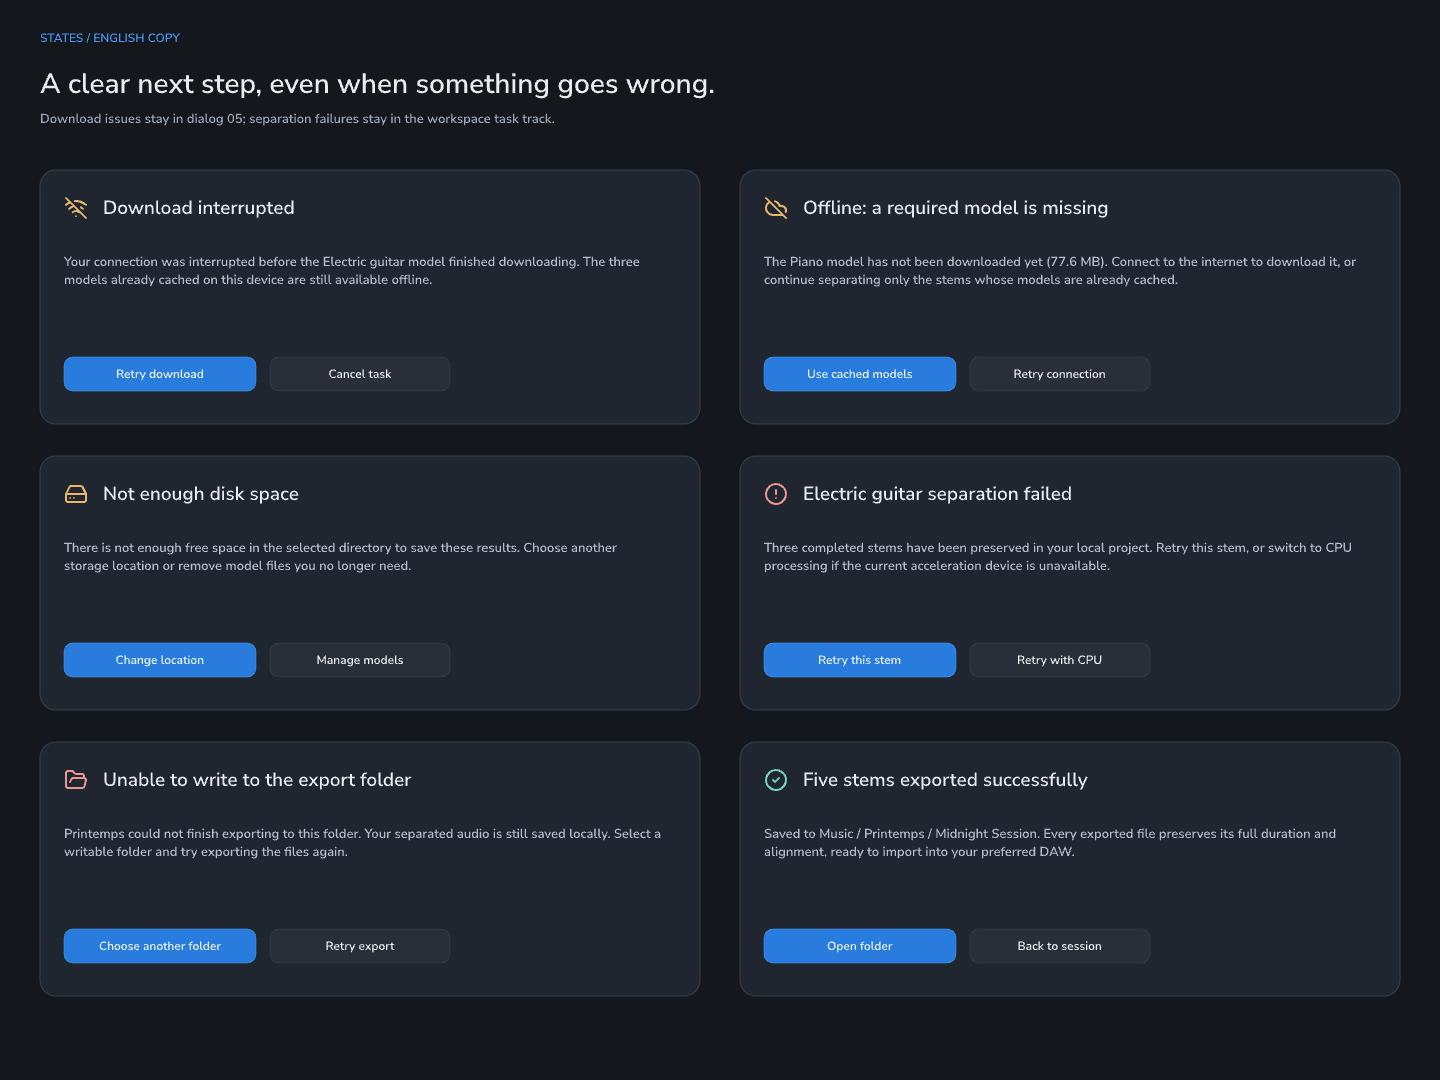
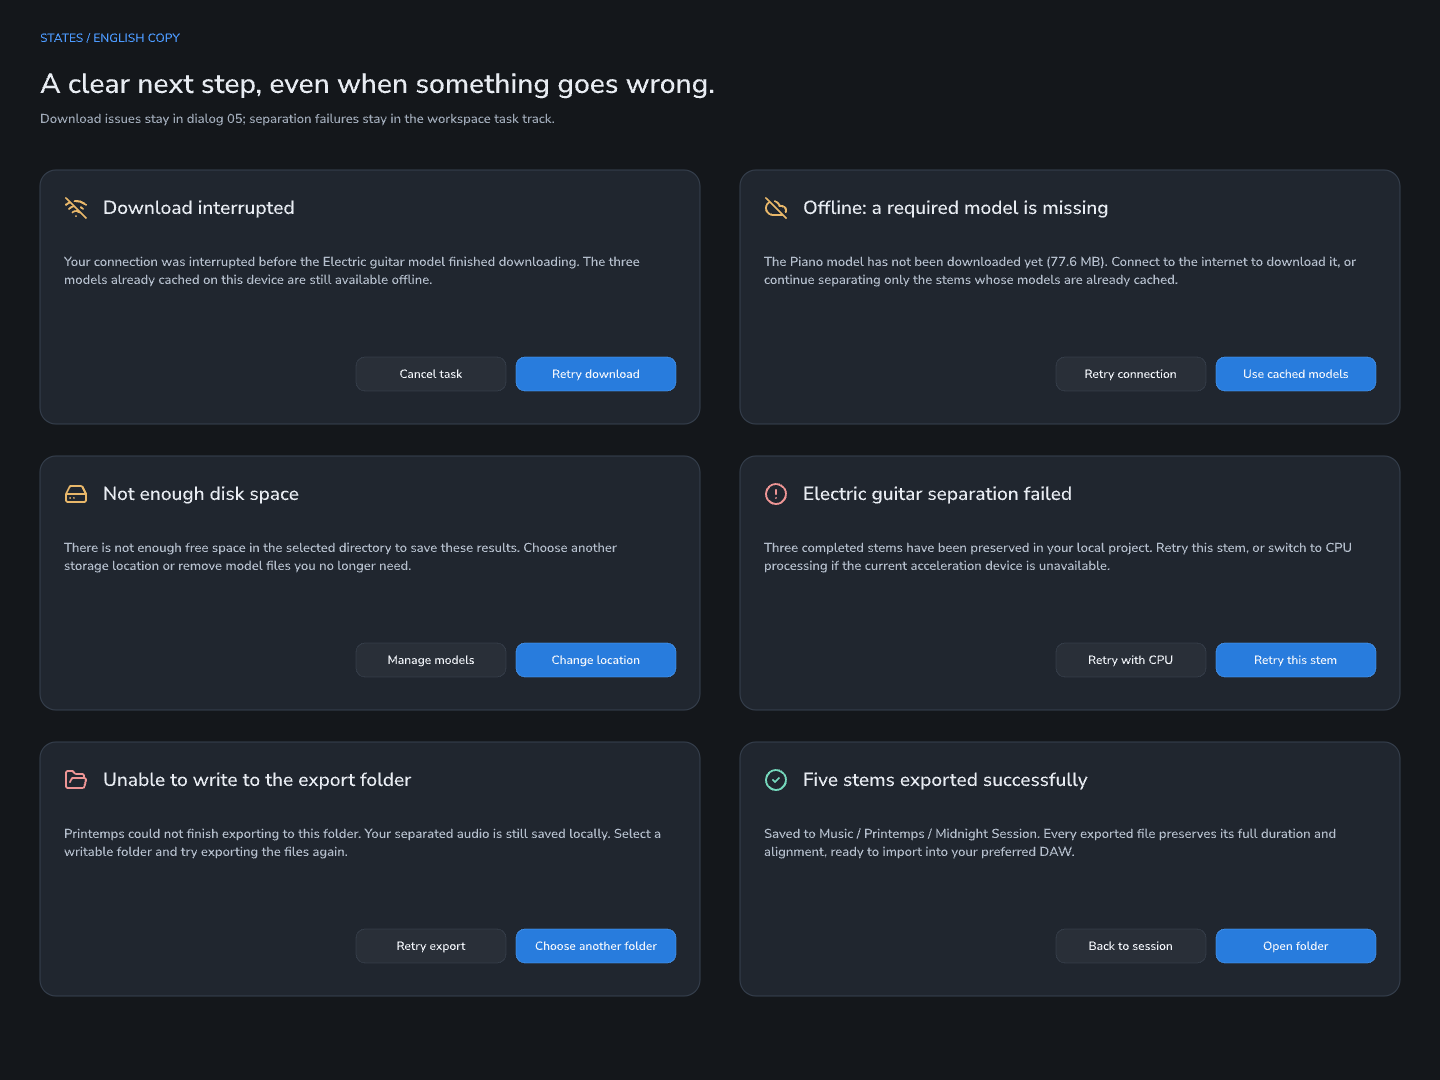
Design: board 12 follows board 10's right-aligned buttons; index drops stale entries and opens board 30

diff --git a/design/index.html b/design/index.html
@@ -1,7 +1,7 @@
 <!doctype html>
 <html lang="zh-CN"><meta charset="utf-8"><meta name="viewport" content="width=device-width,initial-scale=1"><title>Printemps · 设计交付</title>
 <style>*{box-sizing:border-box}body{margin:0;background:#101318;color:#e8ecf2;font:14px system-ui,-apple-system,sans-serif}header{height:76px;display:flex;align-items:center;gap:20px;border-bottom:1px solid #303640;padding:0 24px}strong{letter-spacing:3px;font-size:20px}header span{color:#a0aab8;font-size:12px}header a{color:#92c0ff;margin-left:auto}main{display:grid;grid-template-columns:240px minmax(0,1fr);min-height:calc(100vh - 76px)}nav{padding:18px 12px;background:#191e25;border-right:1px solid #303640}button{display:flex;gap:14px;width:100%;text-align:left;padding:13px;border:0;border-radius:10px;background:transparent;color:#9ea9b9;cursor:pointer;font:inherit;font-size:12px}button span{color:#e8ecf2}button:hover,button.active{background:#263c59;color:#8bc0ff}section{padding:24px;min-width:0}h1{margin:0;font-size:19px;font-weight:500}.caption{display:flex;align-items:center;justify-content:space-between;margin-bottom:20px}.caption a{color:#8cbfff;text-decoration:none;font-size:12px}img{display:block;width:100%;height:auto;max-width:1600px;border:1px solid #303640;box-shadow:0 12px 42px #0006}p{font-size:12px;line-height:1.8;color:#a0aab8;margin-top:18px}button:focus-visible,a:focus-visible{outline:2px solid #8cbfff;outline-offset:3px}@media(max-width:850px){main{grid-template-columns:180px minmax(0,1fr)}section{padding:14px}header span{display:none}nav{padding:12px 6px}button{font-size:11px;padding:10px 8px}}.brand-logo{width:178px;height:40px;object-fit:contain;border:0;box-shadow:none}.artboard-wrap{position:relative}#source-switch{position:absolute;display:flex;padding:0;background:#292f38;border:1px solid #3a4350;border-radius:10px;isolation:isolate}#source-switch button{position:relative;z-index:1;width:50%;height:100%;display:grid;place-items:center;padding:0;color:#f3f6fb;font-size:clamp(8px,.82vw,12px);border-radius:7px;background:transparent}#source-switch .slider{position:absolute;z-index:0;left:2%;top:9%;width:47.3%;height:82%;background:#287cdd;border-radius:7px;transform:translateX(103%);transition:transform 200ms cubic-bezier(.2,.8,.2,1)}#source-switch.original .slider{transform:translateX(0)}@media(prefers-reduced-motion:reduce){#source-switch .slider{transition:none}}#project-name,#project-name-input{position:absolute;left:1.39%;top:7.89%;width:36%;height:2.9%;background:#1c2026;border:0;color:#e8ecf2;padding:0;text-align:left;font:600 clamp(8px,1.1vw,16px) system-ui;display:block;border-radius:5px;white-space:nowrap;overflow:hidden;text-overflow:ellipsis}#project-name-input{outline:2px solid #4c9aff;background:#101318}#project-name[hidden],#project-name-input[hidden]{display:none}#project-name{width:auto;max-width:36%;height:2.7%;font-size:clamp(5px,.75vw,16px);font-weight:500;line-height:1;padding:0 2px;gap:5px;display:flex;align-items:center;outline-offset:2px}#project-name:hover{background:#1c2026}#project-name .edit-mark{font-size:.7em;color:#7e8998;opacity:.45;transition:opacity 120ms}#project-name:hover .edit-mark,#project-name:focus-visible .edit-mark{opacity:1}#project-name-input{font-size:clamp(5px,.75vw,16px)}.artboard-wrap{container-type:inline-size}#project-name,#project-name-input{font-size:1.111cqw}</style>
-<header><img class="brand-logo" src="brand/printemps-logo-dark.png" alt="Printemps"><span>DAW 风格 · 简体中文 / English · Pen 设计交付</span><a href="README.md">交互与交接说明 ↗</a></header><main><nav aria-label="设计画板"><button data-src="exports/00-foundations.png" data-title="视觉规范与组件">00 <span>视觉规范与组件</span></button><button data-src="exports/01-workbench-zh.png" data-title="中文多轨工作台">01 <span>中文多轨工作台</span></button><button data-src="exports/02-workbench-en-compact.png" data-title="英文紧凑工作台">02 <span>英文紧凑工作台</span></button><button data-src="exports/03-import.png" data-title="导入与最近项目">03 <span>导入与最近项目</span></button><button data-src="exports/04-separation-setup.png" data-title="选择声部弹窗">04 <span>选择声部弹窗</span></button><button data-src="exports/05-model-download.png" data-title="模型下载弹窗">05 <span>模型下载弹窗</span></button><button data-src="exports/06-processing.png" data-title="工作区内分离进度">06 <span>工作区内分离进度</span></button><button data-src="exports/07-model-library.png" data-title="模型管理">07 <span>模型管理</span></button><button data-src="exports/08-export.png" data-title="导出剪辑弹窗">08 <span>导出剪辑弹窗</span></button><button data-src="exports/09-preferences.png" data-title="设置">09 <span>设置</span></button><button data-src="exports/10-recovery-zh.png" data-title="中文恢复与完成">10 <span>中文恢复与完成</span></button><button data-src="exports/11-interaction-map.png" data-title="交互规范">11 <span>交互规范</span></button><button data-src="exports/12-recovery-en.png" data-title="英文长文案状态">12 <span>英文长文案状态</span></button><button data-src="exports/13-history.png" data-title="历史工作记录">13 <span>历史工作记录</span></button><button data-src="exports/14-history-states.png" data-title="历史搜索与删除">14 <span>历史搜索与删除</span></button><button data-src="exports/15-stem-search.png" data-title="声部弹窗 · 搜索结果">15 <span>声部弹窗 · 搜索结果</span></button><button data-src="exports/16-stem-search-empty.png" data-title="声部弹窗 · 无结果">16 <span>声部弹窗 · 无结果</span></button><button data-src="exports/17-brand.png" data-title="品牌标志与应用图标">17 <span>品牌标志与应用图标</span></button><button data-src="exports/18-motion.png" data-title="统一交互与动效">18 <span>统一交互与动效</span></button><button data-src="exports/19-music-analysis.png" data-title="BPM 与调性分析">19 <span>BPM 与调性分析</span></button><button data-src="exports/20-beat-timeline.png" data-title="节拍器与小节刻度">20 <span>节拍器与小节刻度</span></button><button data-src="exports/21-imported-workspace.png" data-title="导入后工作区（单音轨）">21 <span>导入后工作区</span></button><button data-src="exports/22b-deleted-projects.png" data-title="已删除项目">22B</button><button data-src="exports/22-secondary-separation.png" data-title="二次分离与其它音轨">22 <span>二次分离与其它音轨</span></button><button data-src="workspace-revision/Ac4ta.png" data-title="工作台修订">23 <span>工作台修订</span></button><button data-src="exports/24-all-tracks.png" data-title="所有音轨">24 <span>所有音轨</span></button><button data-src="exports/25-rhythm-key.png" data-title="节奏与调性">25 <span>节奏与调性</span></button><button data-src="exports/26-shortcuts.png" data-title="快捷键">26 <span>快捷键</span></button><button data-src="exports/27-compact-task-notice.png" data-title="紧凑任务提示">27 <span>紧凑任务提示</span></button><button data-src="exports/28-native-menus.png" data-title="原生菜单栏">28 <span>原生菜单栏</span></button><button data-src="exports/29-native-titlebar.png" data-title="平台融合顶栏">29 <span>平台融合顶栏</span></button><button data-src="exports/30-multi-clip-workspace.png" data-title="多剪辑工作台（当前）">30 <span>多剪辑工作台（当前）</span></button><button data-src="exports/31-recovery-banners.png" data-title="保存与导入失败 · 紧凑恢复提示">31 <span>保存与导入恢复提示</span></button></nav><section><div class="caption"><h1 id="title">中文多轨工作台</h1><a id="original" href="exports/01-workbench-zh.png" target="_blank">查看原尺寸 PNG ↗</a></div><div class="artboard-wrap"><img id="artboard" src="exports/01-workbench-zh.png" alt="Printemps 中文多轨工作台设计"><button id="project-name" title="修改项目名称">Midnight Session ✎</button><input id="project-name-input" aria-label="项目名称" maxlength="80" hidden><div id="source-switch" role="group" aria-label="试听来源"><span class="slider"></span><button type="button" aria-pressed="false">原始</button><button type="button" aria-pressed="true">分轨</button></div></div><p><a href="motion.html">打开交互动效预览 ↗</a><br>剪辑分割与裁剪 · 片段分离与导出 · 历史项目管理<br>本页为界面设计预览，波形、缓存状态与进度均为示例。</p></section></main>
+<header><img class="brand-logo" src="brand/printemps-logo-dark.png" alt="Printemps"><span>DAW 风格 · 简体中文 / English · Pen 设计交付</span><a href="README.md">交互与交接说明 ↗</a></header><main><nav aria-label="设计画板"><button data-src="exports/00-foundations.png" data-title="视觉规范与组件">00 <span>视觉规范与组件</span></button><button data-src="exports/02-workbench-en-compact.png" data-title="英文紧凑工作台">02 <span>英文紧凑工作台</span></button><button data-src="exports/03-import.png" data-title="导入与最近项目">03 <span>导入与最近项目</span></button><button data-src="exports/04-separation-setup.png" data-title="选择声部弹窗">04 <span>选择声部弹窗</span></button><button data-src="exports/05-model-download.png" data-title="模型下载弹窗">05 <span>模型下载弹窗</span></button><button data-src="exports/06-processing.png" data-title="工作区内分离进度">06 <span>工作区内分离进度</span></button><button data-src="exports/07-model-library.png" data-title="模型管理">07 <span>模型管理</span></button><button data-src="exports/08-export.png" data-title="导出剪辑弹窗">08 <span>导出剪辑弹窗</span></button><button data-src="exports/09-preferences.png" data-title="设置">09 <span>设置</span></button><button data-src="exports/10-recovery-zh.png" data-title="中文恢复与完成">10 <span>中文恢复与完成</span></button><button data-src="exports/11-interaction-map.png" data-title="交互规范">11 <span>交互规范</span></button><button data-src="exports/12-recovery-en.png" data-title="英文长文案状态">12 <span>英文长文案状态</span></button><button data-src="exports/13-history.png" data-title="历史工作记录">13 <span>历史工作记录</span></button><button data-src="exports/14-history-states.png" data-title="历史搜索与删除">14 <span>历史搜索与删除</span></button><button data-src="exports/15-stem-search.png" data-title="声部弹窗 · 搜索结果">15 <span>声部弹窗 · 搜索结果</span></button><button data-src="exports/16-stem-search-empty.png" data-title="声部弹窗 · 无结果">16 <span>声部弹窗 · 无结果</span></button><button data-src="exports/17-brand.png" data-title="品牌标志与应用图标">17 <span>品牌标志与应用图标</span></button><button data-src="exports/18-motion.png" data-title="统一交互与动效">18 <span>统一交互与动效</span></button><button data-src="exports/20-beat-timeline.png" data-title="节拍器与小节刻度">20 <span>节拍器与小节刻度</span></button><button data-src="exports/21-imported-workspace.png" data-title="导入后工作区（单音轨）">21 <span>导入后工作区</span></button><button data-src="exports/22b-deleted-projects.png" data-title="已删除项目">22B</button><button data-src="exports/22-secondary-separation.png" data-title="二次分离与其它音轨">22 <span>二次分离与其它音轨</span></button><button data-src="exports/24-all-tracks.png" data-title="所有音轨">24 <span>所有音轨</span></button><button data-src="exports/25-rhythm-key.png" data-title="节奏与调性">25 <span>节奏与调性</span></button><button data-src="exports/26-shortcuts.png" data-title="快捷键">26 <span>快捷键</span></button><button data-src="exports/27-compact-task-notice.png" data-title="紧凑任务提示">27 <span>紧凑任务提示</span></button><button data-src="exports/28-native-menus.png" data-title="原生菜单栏">28 <span>原生菜单栏</span></button><button data-src="exports/29-native-titlebar.png" data-title="平台融合顶栏">29 <span>平台融合顶栏</span></button><button data-src="exports/30-multi-clip-workspace.png" data-title="多剪辑工作台（当前）">30 <span>多剪辑工作台（当前）</span></button><button data-src="exports/31-recovery-banners.png" data-title="保存与导入失败 · 紧凑恢复提示">31 <span>保存与导入恢复提示</span></button></nav><section><div class="caption"><h1 id="title">多剪辑工作台（当前）</h1><a id="original" href="exports/30-multi-clip-workspace.png" target="_blank">查看原尺寸 PNG ↗</a></div><div class="artboard-wrap"><img id="artboard" src="exports/30-multi-clip-workspace.png" alt="Printemps 中文多轨工作台设计"><button id="project-name" title="修改项目名称">Midnight Session ✎</button><input id="project-name-input" aria-label="项目名称" maxlength="80" hidden><div id="source-switch" role="group" aria-label="试听来源"><span class="slider"></span><button type="button" aria-pressed="false">原始</button><button type="button" aria-pressed="true">分轨</button></div></div><p><a href="motion.html">打开交互动效预览 ↗</a><br>剪辑分割与裁剪 · 片段分离与导出 · 历史项目管理<br>本页为界面设计预览，波形、缓存状态与进度均为示例。</p></section></main>
 <script>const buttons=[...document.querySelectorAll('nav button')];const sourceSwitch=document.getElementById('source-switch');const sourceButtons=[...sourceSwitch.querySelectorAll('button')];function selectSource(index){sourceSwitch.classList.toggle('original',index===0);sourceButtons.forEach((b,i)=>b.setAttribute('aria-pressed',String(i===index)));}sourceButtons.forEach((b,i)=>{b.addEventListener('click',()=>selectSource(i));b.addEventListener('keydown',e=>{if(e.key==='ArrowLeft'||e.key==='ArrowRight'){e.preventDefault();const next=e.key==='ArrowLeft'?0:1;selectSource(next);sourceButtons[next].focus();}})});const renameButton=document.getElementById('project-name'),renameInput=document.getElementById('project-name-input');let previewName=localStorage.getItem('printemps-preview-name')||'Midnight Session';let inWorkbench=false;
 function finishRename(){renameButton.replaceChildren(document.createTextNode(previewName));const editMark=document.createElement('span');editMark.className='edit-mark';editMark.textContent='✎';renameButton.append(editMark);renameButton.hidden=!inWorkbench;renameInput.hidden=true;}
 renameButton.onclick=()=>{renameButton.hidden=true;renameInput.hidden=false;renameInput.value=previewName;renameInput.focus();renameInput.select();};

diff --git a/docs/acceptance.md b/docs/acceptance.md
@@ -793,6 +793,7 @@ Implemented from user feedback on the local 9da5785 build and verified on the re
 - Hero image: at the user’s request the hero now shows a capture of the running packaged app window (`screencapture -l <windowId>` after listing windows with a small Swift `CGWindowListCopyWindowInfo` helper; screen-recording permission is granted now). `site/assets/workspace.png` is 2940×1846 (1470×923 @2x) and the `img` carries matching width/height with `.shot img{width:100%;height:auto}`; the previous fixed `height` attribute had squashed it. Board 33 `BGiu9` now uses the same capture as an image fill (`design/brand/workspace-live.png`), the placeholder note is disabled. Cloudflare caches CSS/JS/images for 4 h, so `styles.css`, `app.js` and the hero image are referenced with `?v=__BUILD__`, replaced by the commit short SHA in `pages.yml`. Live checks after DNS moved to Cloudflare: `https://printemps.dev/` and `/privacy` return 200 through Cloudflare (`x-github-request-id` present), extensionless `/privacy` resolves, GitHub origin also answers directly on 185.199.108.153.
 - English hero: a second capture of the same window after the user switched the app to English is `site/assets/workspace-en.png` (2940×1846). The `img` carries `data-zh`/`data-en` sources (both `?v=__BUILD__`-stamped) and `render()` swaps `src` and `alt` with the language toggle; verified locally in both directions at 1440 px.
 - Guide copy rule (user feedback): do not state things the user need not do or internal implementation facts (bundled Python runtime, focus handling, update source). Removed those three sentences in zh and en; board 35 section 7 text updated.
+- Board 12 (English recovery cards) now mirrors board 10’s button rule — right-aligned, primary on the right (primary 160 px, secondary 150 px, 10 px gap) — after the user noticed it had not followed the Chinese board. The app already renders both languages with the shared right-aligned `.dialog-actions` rule, so no code change. Design index: stale 01/19/23 buttons removed and the default artboard now opens board 30.
 - Pen tidy-up (user request): inventory of 43 top-level nodes vs 27 registered; deleted the empty frame, 08 archive, 01 (old workbench chrome), 19 (early analysis-page concept) and 23 (intermediate revision); rebuilt 06/20/21/24/25 as copies of board 30 with their distinguishing content re-added (progress lane, bar ruler, single track, track-manager dialog, rhythm dialog with 36px fields) so every workspace board shares the current header/toolbar/inspector/transport; 22B header aligned to board 13. New ids ZGUWf/KeoeE/chmaD/Z3F6dz/W5oeKw; 22B and 24–31 registered; stale exports, static screen HTML and duplicate PNG folders removed; index.html buttons repointed and verified to resolve. Pen saved natively (mtime advanced). Layout check reports only the pre-existing clipped time-grid lines inside lanes.
 - Package 05ea070 in `release-05ea070/`: signed and verified; `out/main/index.js` inside app.asar is byte-identical to the local build of this commit.
 - Analysis result handling (user feedback on 05. Prism Light): the worker had succeeded (466 beats, 125 BPM, G major) but the header still showed “—” because analysis only stored a recommendation. Now `AnalysisService.execute` writes the recommendation into `project.music` immediately, replacing manual values; fields whose analysis failed keep their current value; Reset still restores the recommendation. `tests/analysis-service.test.ts` covers apply, partial failure (bpm 99 kept while key updates) and override of manual values. Pen: board 19 note on the README; design README 246 updated.
